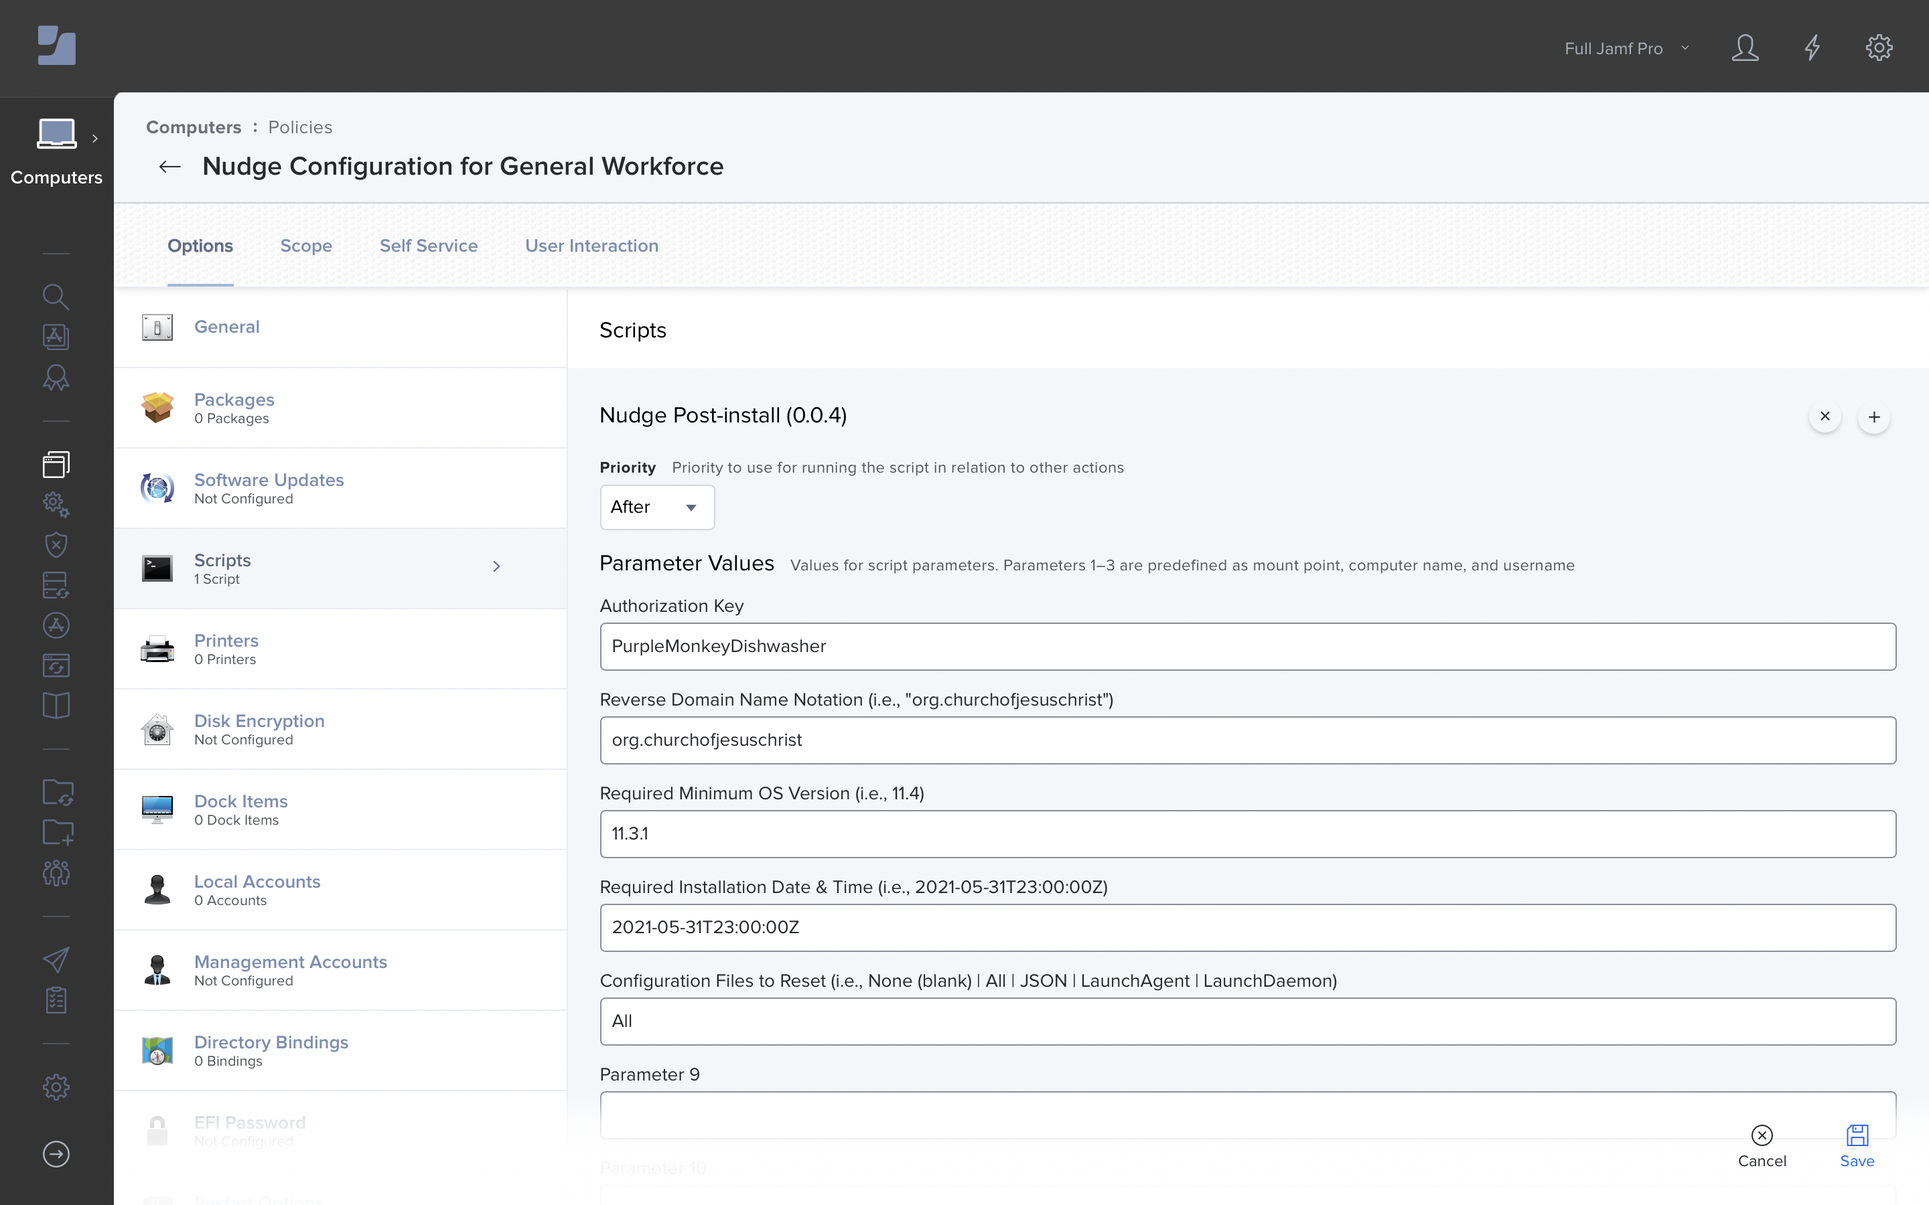
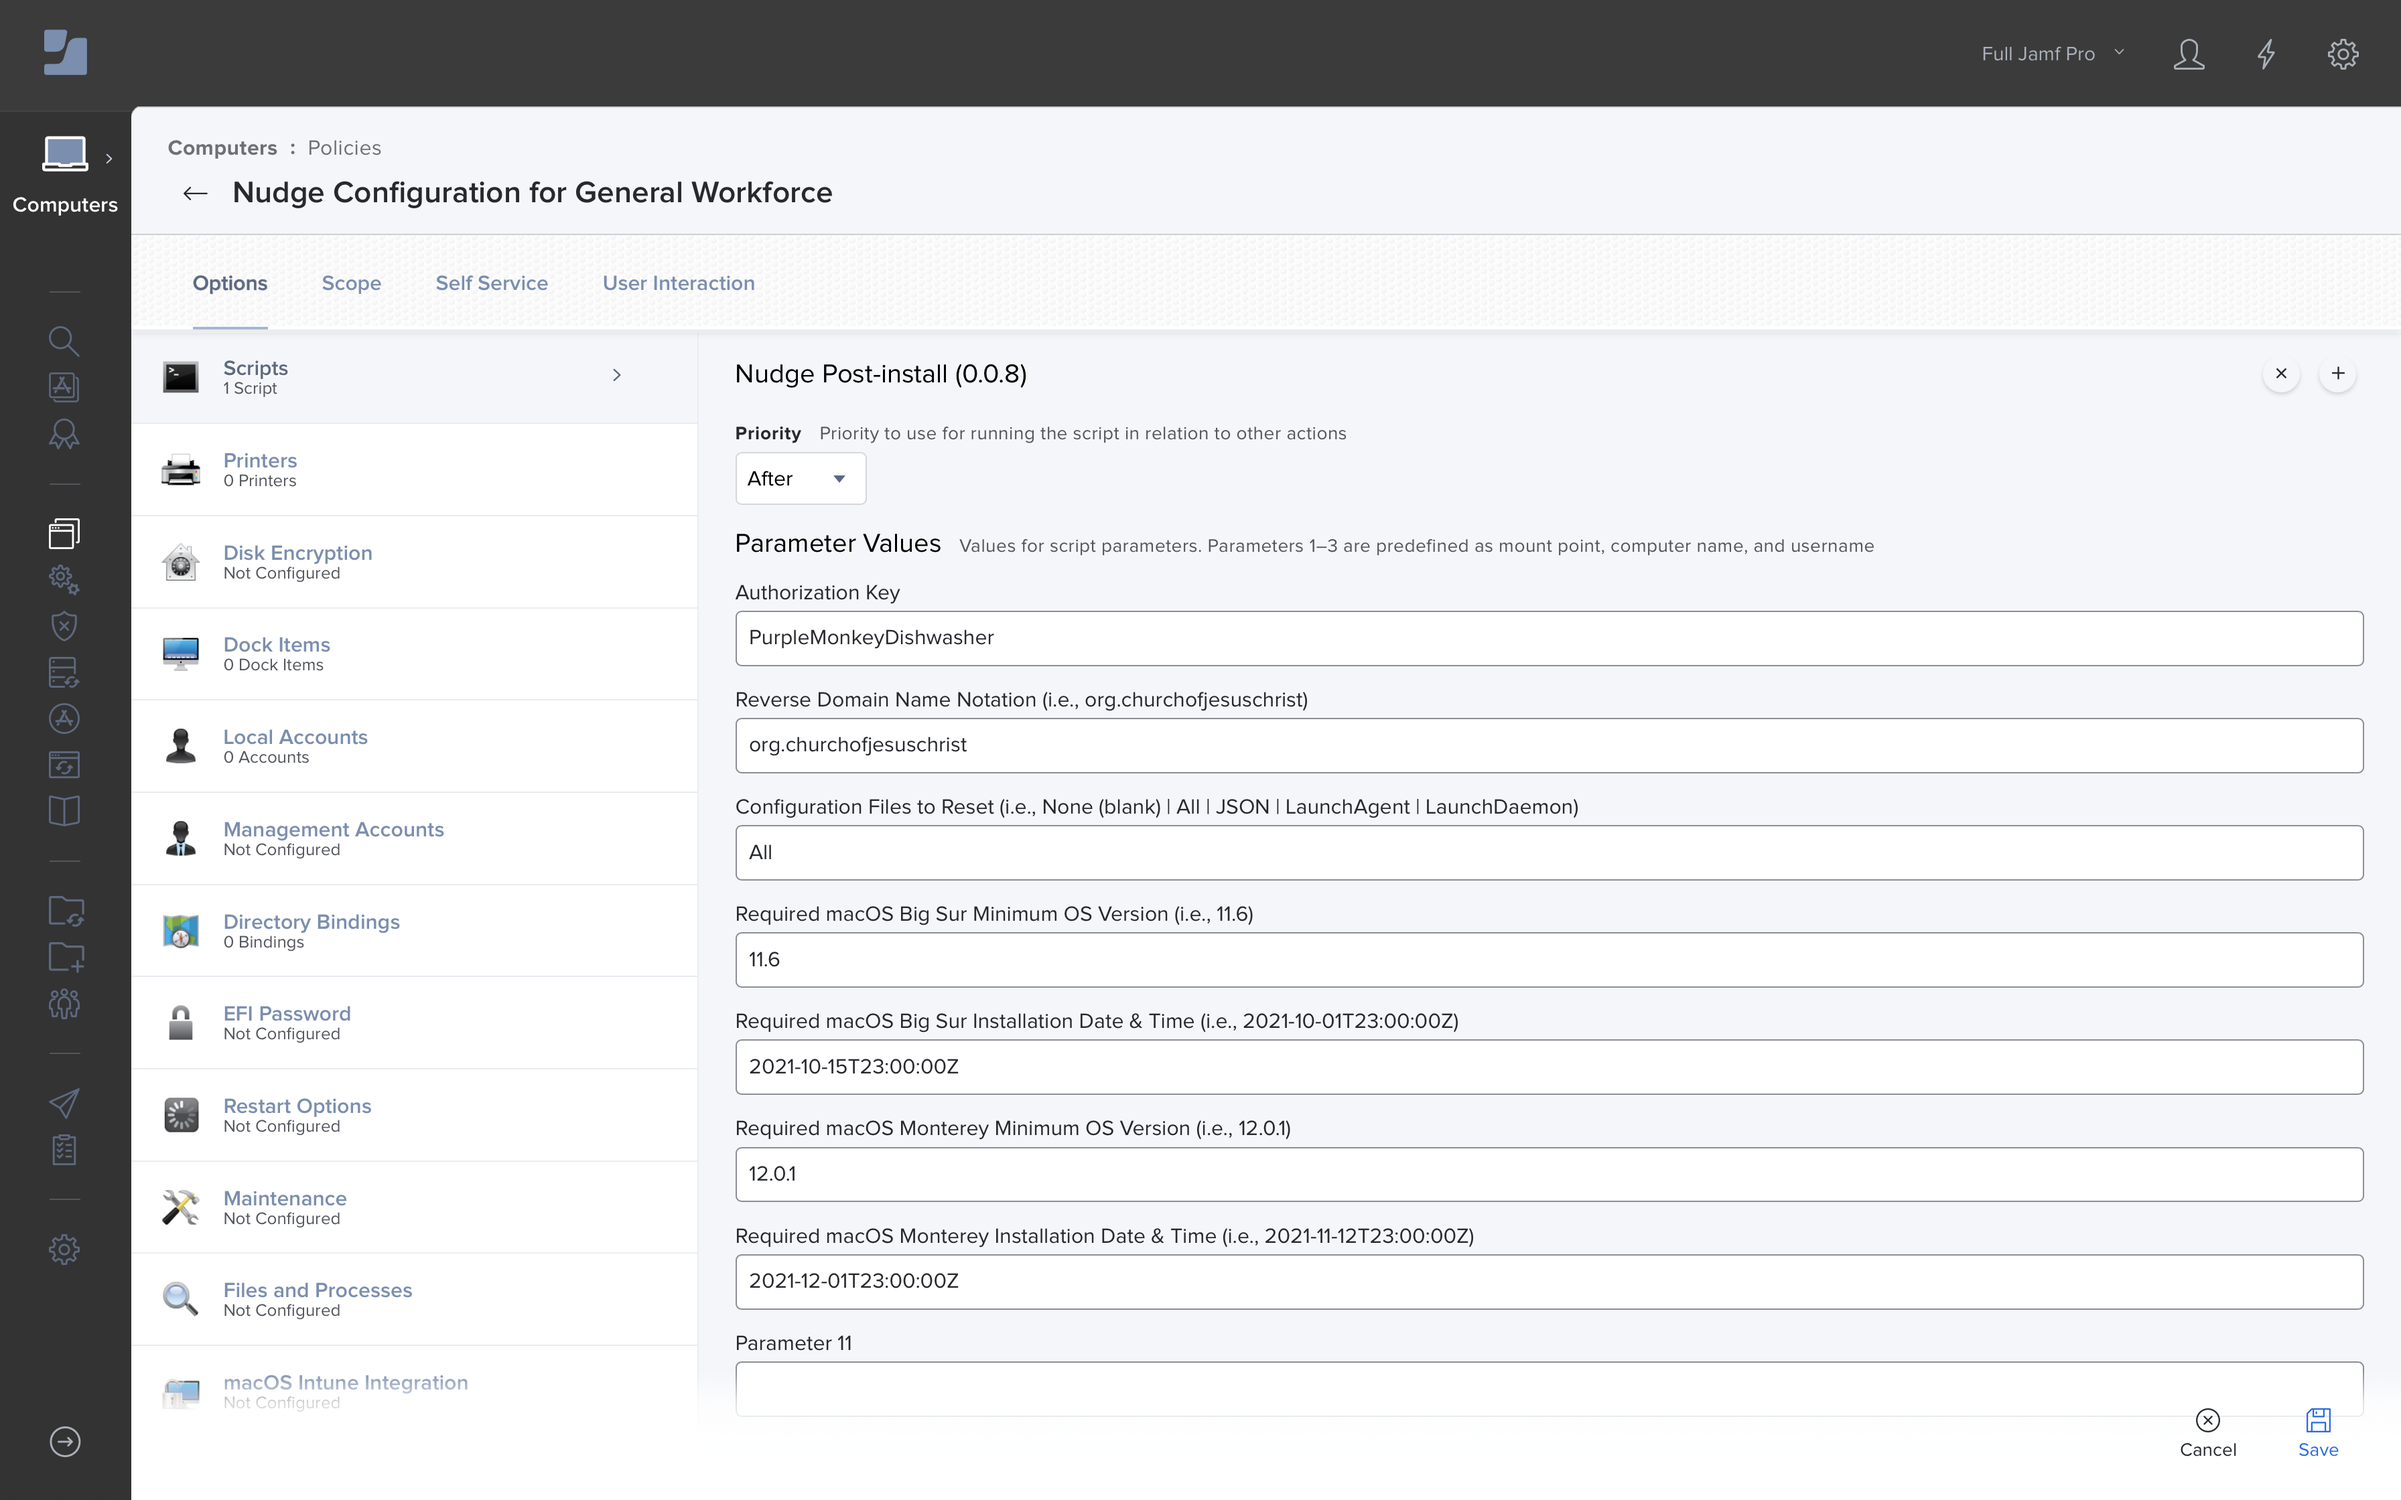
v0.0.8 Enforce latest version on both macOS Monterey and macOS Big Sur

diff --git a/README.md b/README.md
@@ -1,6 +1,6 @@
 # Nudge Post-install
 
-**Configures [Nudge](https://github.com/macadmins/nudge/blob/main/README.md) via the [Nudge Post-install](https://github.com/dan-snelson/Nudge-Post-install/blob/main/Nudge-Post-install.bash) script to create:**
+**Configures [Nudge](https://github.com/macadmins/nudge/blob/main/README.md) via the [Nudge Post-install](Nudge-Post-install.bash) script to create:**
 - LaunchAgent: Opens Nudge 
 - LaunchDaemon: Redirect Logs
 - Local JSON: Configures Nudge
@@ -57,18 +57,19 @@ Carefully review [Nudge Preferences](https://github.com/macadmins/nudge/wiki/Pre
 
 | Option | Nudge.app | LaunchAgent | Preference |
 |--------|-----------|-------------|------------|
-| <center>1</center> | <center><img src="https://raw.githubusercontent.com/dan-snelson/Nudge-Post-install/main/images/PKG%20icon.png" width="100"></center> <br /> Nudge-1.1.1.x.pkg | | <img src="https://raw.githubusercontent.com/dan-snelson/Nudge-Post-install/main/images/Firefox%20icon.png" width="100">  <img src="https://raw.githubusercontent.com/dan-snelson/Nudge-Post-install/main/images/Terminal%20icon.png" width="100"> <br /> <center>Local Testing</center> |
-|  <center>2</center> | <center><img src="https://raw.githubusercontent.com/dan-snelson/Nudge-Post-install/main/images/PKG%20icon.png" width="100"></center> <br /> Nudge-1.1.1.x.pkg | <center><img src="https://raw.githubusercontent.com/dan-snelson/Nudge-Post-install/main/images/PKG%20icon.png" width="100"> <br /> Nudge_LaunchAgent-1.0.0.pkg </center> | <img src="https://raw.githubusercontent.com/dan-snelson/Nudge-Post-install/main/images/Jamf%20Pro%20icon.png" width="100">  <img src="https://raw.githubusercontent.com/dan-snelson/Nudge-Post-install/main/images/Configuration%20Profile%20icon.png" width="100"> <br /> <center>Jamf Pro JSON Schema</center> |
-|  <center>3</center> | <center><img src="https://raw.githubusercontent.com/dan-snelson/Nudge-Post-install/main/images/PKG%20icon.png" width="100"></center> <br /> Nudge-1.1.1.x.pkg | <img src="https://raw.githubusercontent.com/dan-snelson/Nudge-Post-install/main/images/Terminal%20icon.png" width="100"> <img src="https://raw.githubusercontent.com/dan-snelson/Nudge-Post-install/main/images/PLIST%20icon.png" width="100"> <br /> <center>Nudge Post-install script</center> | <img src="https://raw.githubusercontent.com/dan-snelson/Nudge-Post-install/main/images/Terminal%20icon.png" width="100"> <img src="https://raw.githubusercontent.com/dan-snelson/Nudge-Post-install/main/images/JSON%20icon.png" width="100"> <br /> <center>Nudge Post-install script</center> |
+| <center>1</center> | <center><img src="images/PKG%20icon.png" width="100"></center> <br /> Nudge-1.1.1.x.pkg | | <img src="images/Firefox%20icon.png" width="100">  <img src="images/Terminal%20icon.png" width="100"> <br /> <center>Local Testing</center> |
+|  <center>2</center> | <center><img src="images/PKG%20icon.png" width="100"></center> <br /> Nudge-1.1.1.x.pkg | <center><img src="images/PKG%20icon.png" width="100"> <br /> Nudge_LaunchAgent-1.0.0.pkg </center> | <img src="images/Jamf%20Pro%20icon.png" width="100">  <img src="images/Configuration%20Profile%20icon.png" width="100"> <br /> <center>Jamf Pro JSON Schema</center> |
+|  <center>3</center> | <center><img src="images/PKG%20icon.png" width="100"></center> <br /> Nudge-1.1.1.x.pkg | <img src="images/Terminal%20icon.png" width="100"> <img src="images/PLIST%20icon.png" width="100"> <br /> <center>Nudge Post-install script</center> | <img src="images/Terminal%20icon.png" width="100"> <img src="images/JSON%20icon.png" width="100"> <br /> <center>Nudge Post-install script</center> |
 
-1. **Option No. 1** is when you are first testing Nudge. You'll install the [latest Nudge.app](https://github.com/macadmins/nudge/releases) on a test Mac and then carefully review the following articles in your favorite Web browser and use [Terminal](https://github.com/macadmins/nudge/blob/main/README.md#command-line-arguments) to modify Nudge's configuration using its built-in [JSON support](https://github.com/macadmins/nudge#json-support):
+1. **Option No. 1** is when you are first testing Nudge. You'll install the [latest Nudge.app](https://github.com/macadmins/nudge/releases) on a test Mac and then carefully review the following articles and use your favorite editor to modify Nudge's configuration, then use Terminal to test Nudge's built-in [JSON support](https://github.com/macadmins/nudge/wiki#json-support):
 	- [Nudge README](https://github.com/macadmins/nudge/blob/main/README.md)
+	- [Nudge Wiki](https://github.com/macadmins/nudge/wiki)
 	- [Getting Started](https://github.com/macadmins/nudge/wiki/Getting-Started)
 	
 	When you're satisfied with your Nudge configuration on your local test Mac, it's time to deploy to your testing group.
-1. Every release of Nudge includes a [`LaunchAgent` package](https://github.com/macadmins/nudge/blob/main/README.md#scheduling-nudge-to-run), which we see in **Option No. 2**. This `LaunchAgent` will open Nudge every 30 minutes — on the hour and half-past the hour.  You will still need to deploy the Nudge app itself,  and with this option, a [Jamf Pro JSON Schema to deploy a Configuration Profile](https://github.com/macadmins/nudge/wiki/Jamf-Pro-Guide#configuration-profile) for Nudge's settings.
+1. Every release of Nudge includes a [`LaunchAgent` package](https://github.com/macadmins/nudge/wiki#scheduling-nudge-to-run), which we see in **Option No. 2**. This `LaunchAgent` will open Nudge every 30 minutes — on the hour and half-past the hour.  You will still need to deploy the Nudge app itself,  and with this option, a [Jamf Pro JSON Schema to deploy a Configuration Profile](https://github.com/macadmins/nudge/wiki/Jamf-Pro-Guide#configuration-profile) for Nudge's settings.
 	- If you deploy a standard Configuration Profile, **it must be signed** or it *will be* modified by Jamf Pro. (See: [Creating a Signing Certificate Using Jamf Pro's Built-in CA to Use for Signing Configuration Profiles and Packages](https://www.jamf.com/jamf-nation/articles/649/).)
-1. **Option No. 3** leverages the [Nudge Post-install](https://github.com/dan-snelson/Nudge-Post-install/blob/main/Nudge-Post-install.bash) script deployed via the Jamf Pro Script Payload to create:
+1. **Option No. 3** leverages the [Nudge Post-install](Nudge-Post-install.bash) script deployed via the Jamf Pro Script Payload to create:
 	- LaunchAgent: Opens Nudge 
 	- LaunchDaemon: Redirect Logs
 	- Local JSON: Configures Nudge
@@ -87,7 +88,7 @@ The remainder of this article focuses on **Option No. 3**.
 - [Jamf Pro Administrator's Guide Scripts](https://docs.jamf.com/10.32.0/jamf-pro/administrator-guide/Scripts.html)
 - [Screencast](https://rumble.com/vnwtle-nudge-post-install-script.html) (02:02; no audio)
 
-Add the [Nudge Post-install](https://github.com/dan-snelson/Nudge-Post-install/blob/main/Nudge-Post-install.bash) script to Jamf Pro:
+Add the [Nudge Post-install](Nudge-Post-install.bash) script to Jamf Pro:
 
 #### Jamf Pro Script Parameter Labels
 
@@ -108,7 +109,7 @@ Add the [Nudge Post-install](https://github.com/dan-snelson/Nudge-Post-install/b
 	"actionButtonPath": "jamfselfservice://content?entity=policy&id=1&action=execute",
 ```
 
-To open **System Preferences > Software Update** (i.e., Nudge v1.0.0 behavior), [delete the entire `actionButtonPath` line](https://github.com/dan-snelson/Nudge-Post-install/blob/main/Nudge-Post-install.bash#L328).
+To open **System Preferences > Software Update** (i.e., Nudge v1.0.0 behavior), [delete the entire `actionButtonPath` line](Nudge-Post-install.bash#L328).
 
 ---
 
@@ -117,7 +118,7 @@ To open **System Preferences > Software Update** (i.e., Nudge v1.0.0 behavior), 
 Nudge is updated frequently and the latest version is always available from [Nudge Releases](https://github.com/macadmins/nudge/releases).
 
 Using [Jamf Pro Package Management](https://docs.jamf.com/10.32.0/jamf-pro/administrator-guide/Package_Management.html) as a guide, upload the required Nudge .PKG:
-- Nudge-1.1.1.x.pkg
+- Nudge-1.1.2.x.pkg
 - ~~Nudge_LaunchAgent-1.0.0.pkg~~ (The required `LaunchAgent` is included in the Nudge Post-install script.) 
 
 ---
@@ -131,27 +132,27 @@ Using the Jamf Pro Administrator's Guide [Smart Groups](https://docs.jamf.com/10
 | And / Or | | Criteria | Operator | Value | |
 |----------|-|----------|----------|-------|-|
 | | ( | Application Title | is | `Nudge.app` | |
-| and | | Application Version | is not | `1.1.1.09082021120759` | ) |
+| and | | Application Version | is not | `1.1.2.10182021160959` | ) |
 | or | | Application Title | does not have | `Nudge.app` | |
-| and | | Operating System Version | greater than or equal | `11.0` | |
+| and | | Operating System Version | greater than or equal | `11.0.1` | |
 
-<img src="https://raw.githubusercontent.com/dan-snelson/Nudge-Post-install/main/images/Update%20Smart%20Nudge.png" width="900">
+<img src="images/Update%20Smart%20Nudge.png" width="900">
 
 ---
 
 ## Policies
 ### Overview
 
-<img src="https://raw.githubusercontent.com/dan-snelson/Nudge-Post-install/main/images/Nudge%20Polciies.png" width="900">
+<img src="images/Nudge%20Polciies.png" width="900">
 
-#### Nudge (1.1.1.x)
+#### Nudge (1.1.2.x)
 #### Options
 - **General**
-	- Display Name: Nudge (1.1.1.x)
+	- Display Name: Nudge (1.1.2.x)
 	- Trigger: Recurring Check-in
 	- Execution Frequency: Ongoing
 - **Package**
-	- Nudge-1.1.1.x.pkg
+	- Nudge-1.1.2.x.pkg
 	- ~~Nudge_LaunchAgent-1.0.0.pkg~~ (The required `LaunchAgent` is included in the Nudge Post-install script.) 
 - **Maintenance**
 	- Update Inventory 
@@ -174,13 +175,15 @@ Using the Jamf Pro Administrator's Guide [Smart Groups](https://docs.jamf.com/10
 	- Trigger: Recurring Check-in
 	- Execution Frequency: Once per computer
 - **Scripts**
-	- Nudge Post-install (0.0.4)
+	- Nudge Post-install (0.0.8)
 		- Priority: After
 		- Authorization Key: `PurpleMonkeyDishwasher`
 		- Reverse Domain Name Notation: `org.churchofjesuschrist`
-		- Required Minimum OS Version: `11.5.2`
-		- Required Installation Date & Time: `2021-08-18T23:00:00Z`
 		- Configuration Files to Reset: `All`
+		- Required macOS Big Sur Minimum OS Version: `11.6`
+		- Required macOS Big Sur Installation Date & Time: `2021-10-15T23:00:00Z`
+		- Required macOS Monterey Minimum OS Version: `12.0.1`
+		- Required macOS Monterey Installation Date & Time: `2021-12-01T23:00:00Z`
 ##### Scope
 - **Targets:** Nudge
 - **Limitations:** No Limitations
@@ -189,7 +192,7 @@ Using the Jamf Pro Administrator's Guide [Smart Groups](https://docs.jamf.com/10
 	- Testing: Beta Group
 	- Testing: Gamma Group
 
-<img src="https://raw.githubusercontent.com/dan-snelson/Nudge-Post-install/main/images/Nudge%20Configuration%20General%20Workforce.png" width="900">
+<img src="images/Nudge%20Configuration%20General%20Workforce.png" width="900">
 
 <hr width="33%">
 
@@ -230,7 +233,7 @@ Using the Jamf Pro Administrator's Guide [Smart Groups](https://docs.jamf.com/10
 ### Reference Images
 
 Nudge's `userInterface : updateElements` Field Names (before deadline)
-<img src="https://raw.githubusercontent.com/dan-snelson/Nudge-Post-install/main/images/Field%20Names.png" width="900">
+<img src="images/Field%20Names.png" width="900">
 
 Nudge's `userInterface : updateElements` Field Names (deferral options disabled after deadline)
-<img src="https://raw.githubusercontent.com/dan-snelson/Nudge-Post-install/main/images/Field%20Names%20(deadline%20past).png" width="900">
+<img src="images/Field%20Names%20(deadline%20past).png" width="900">
